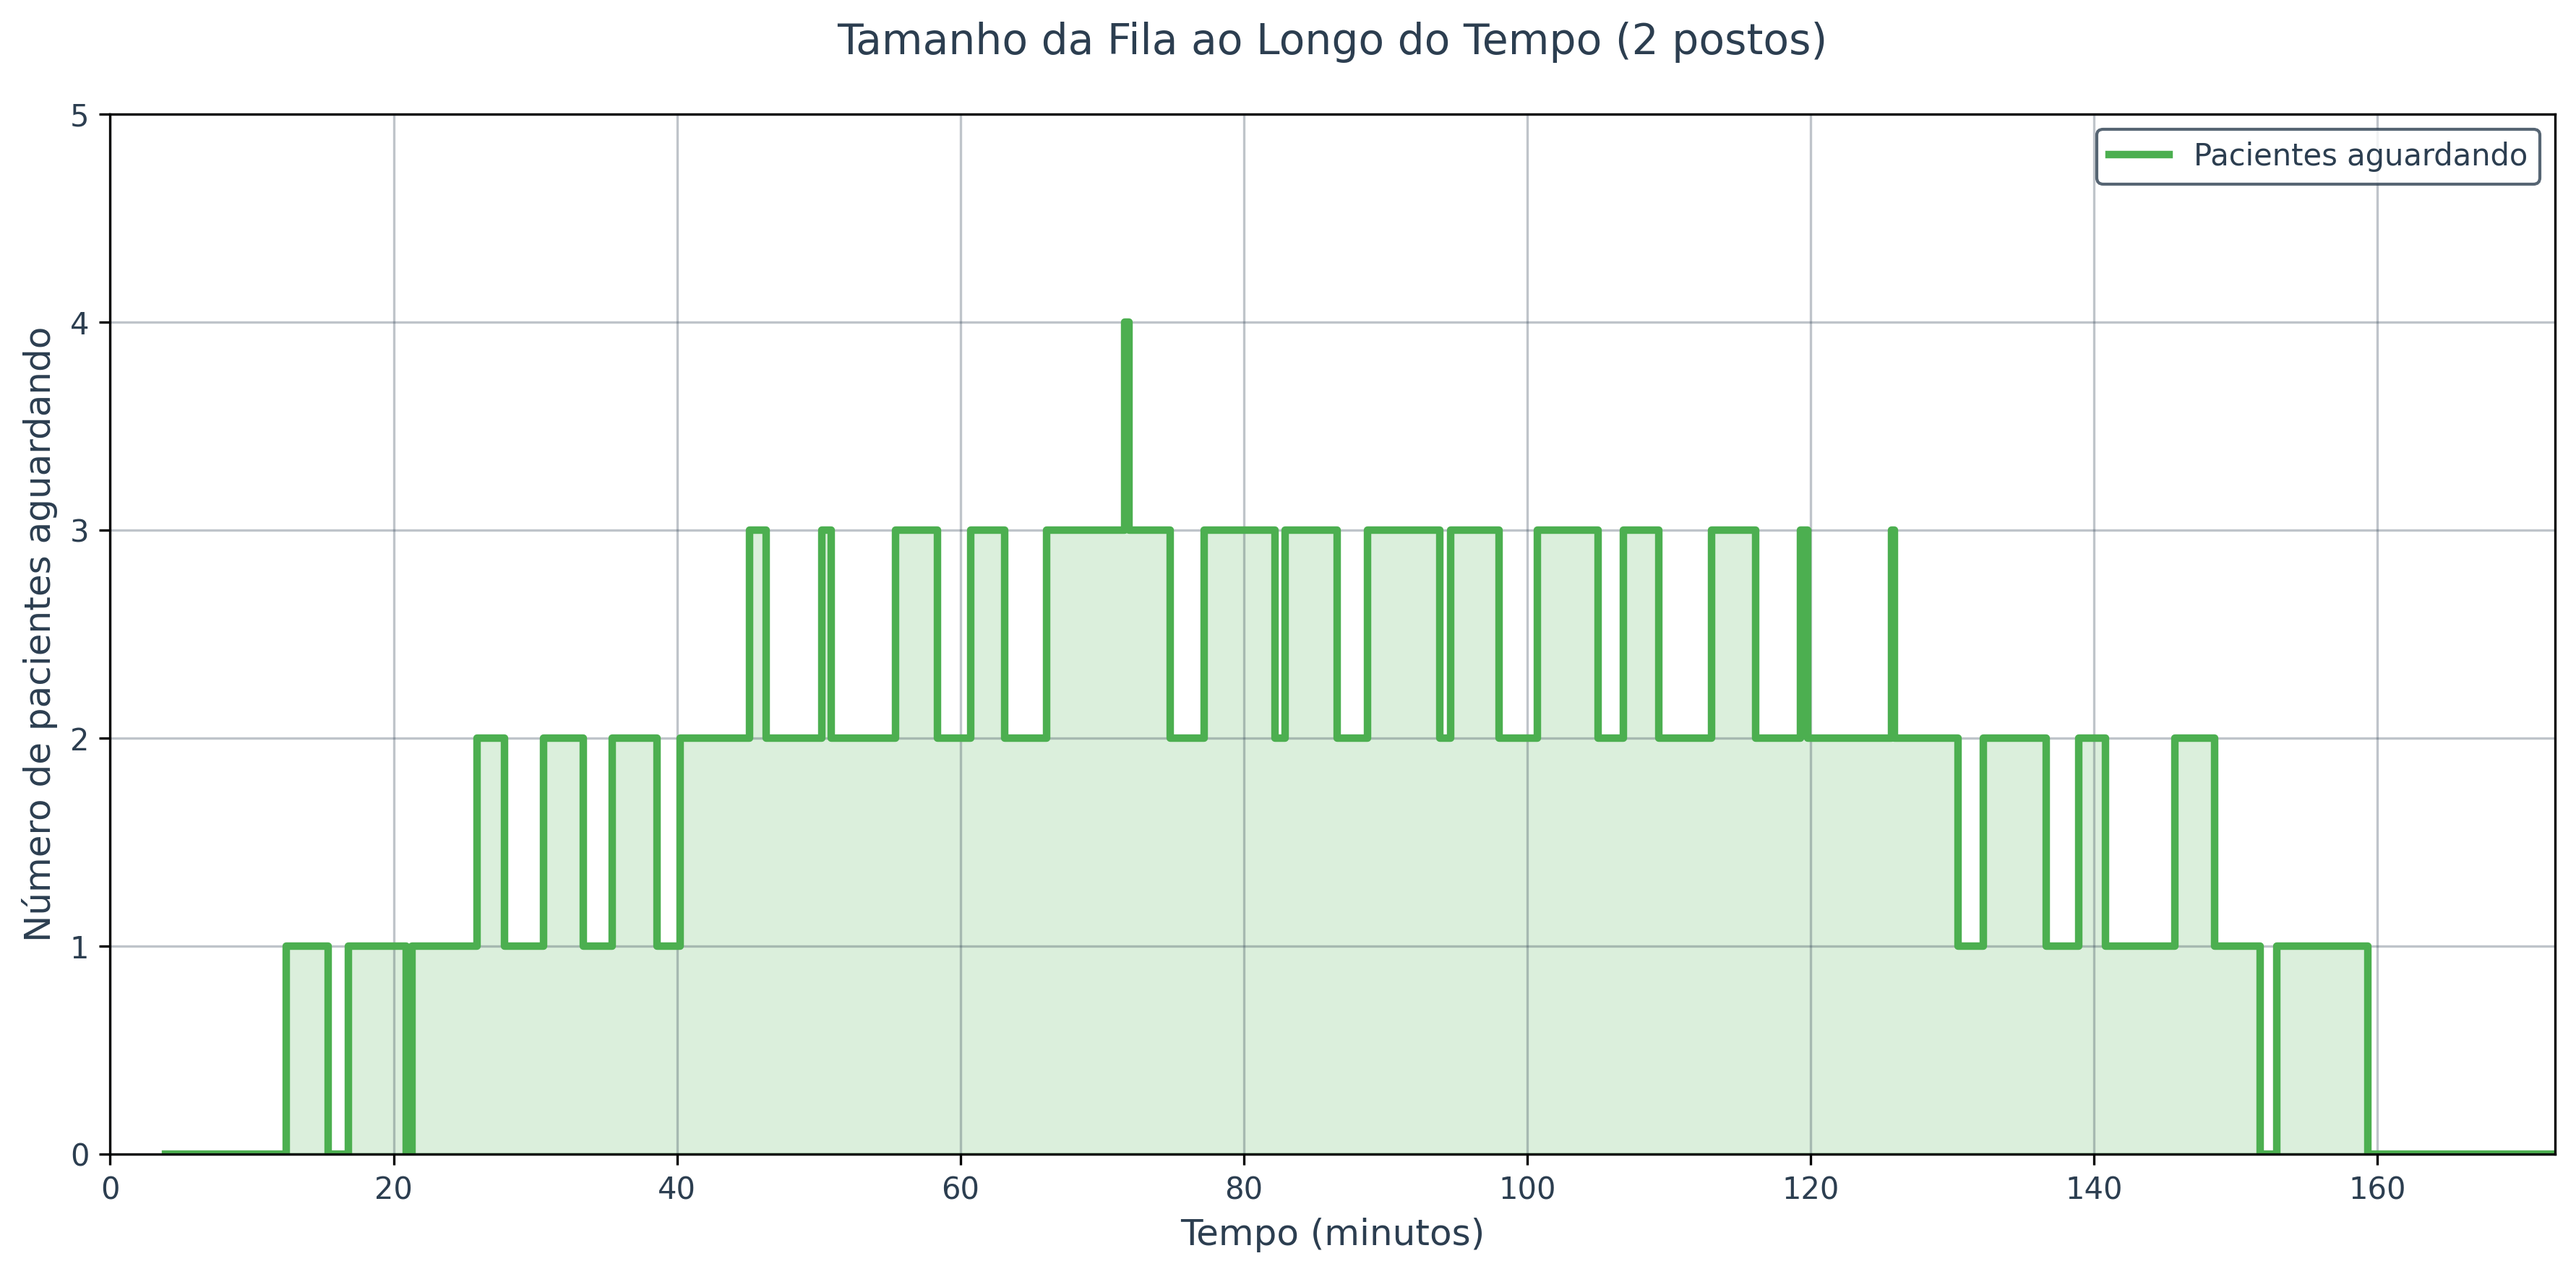
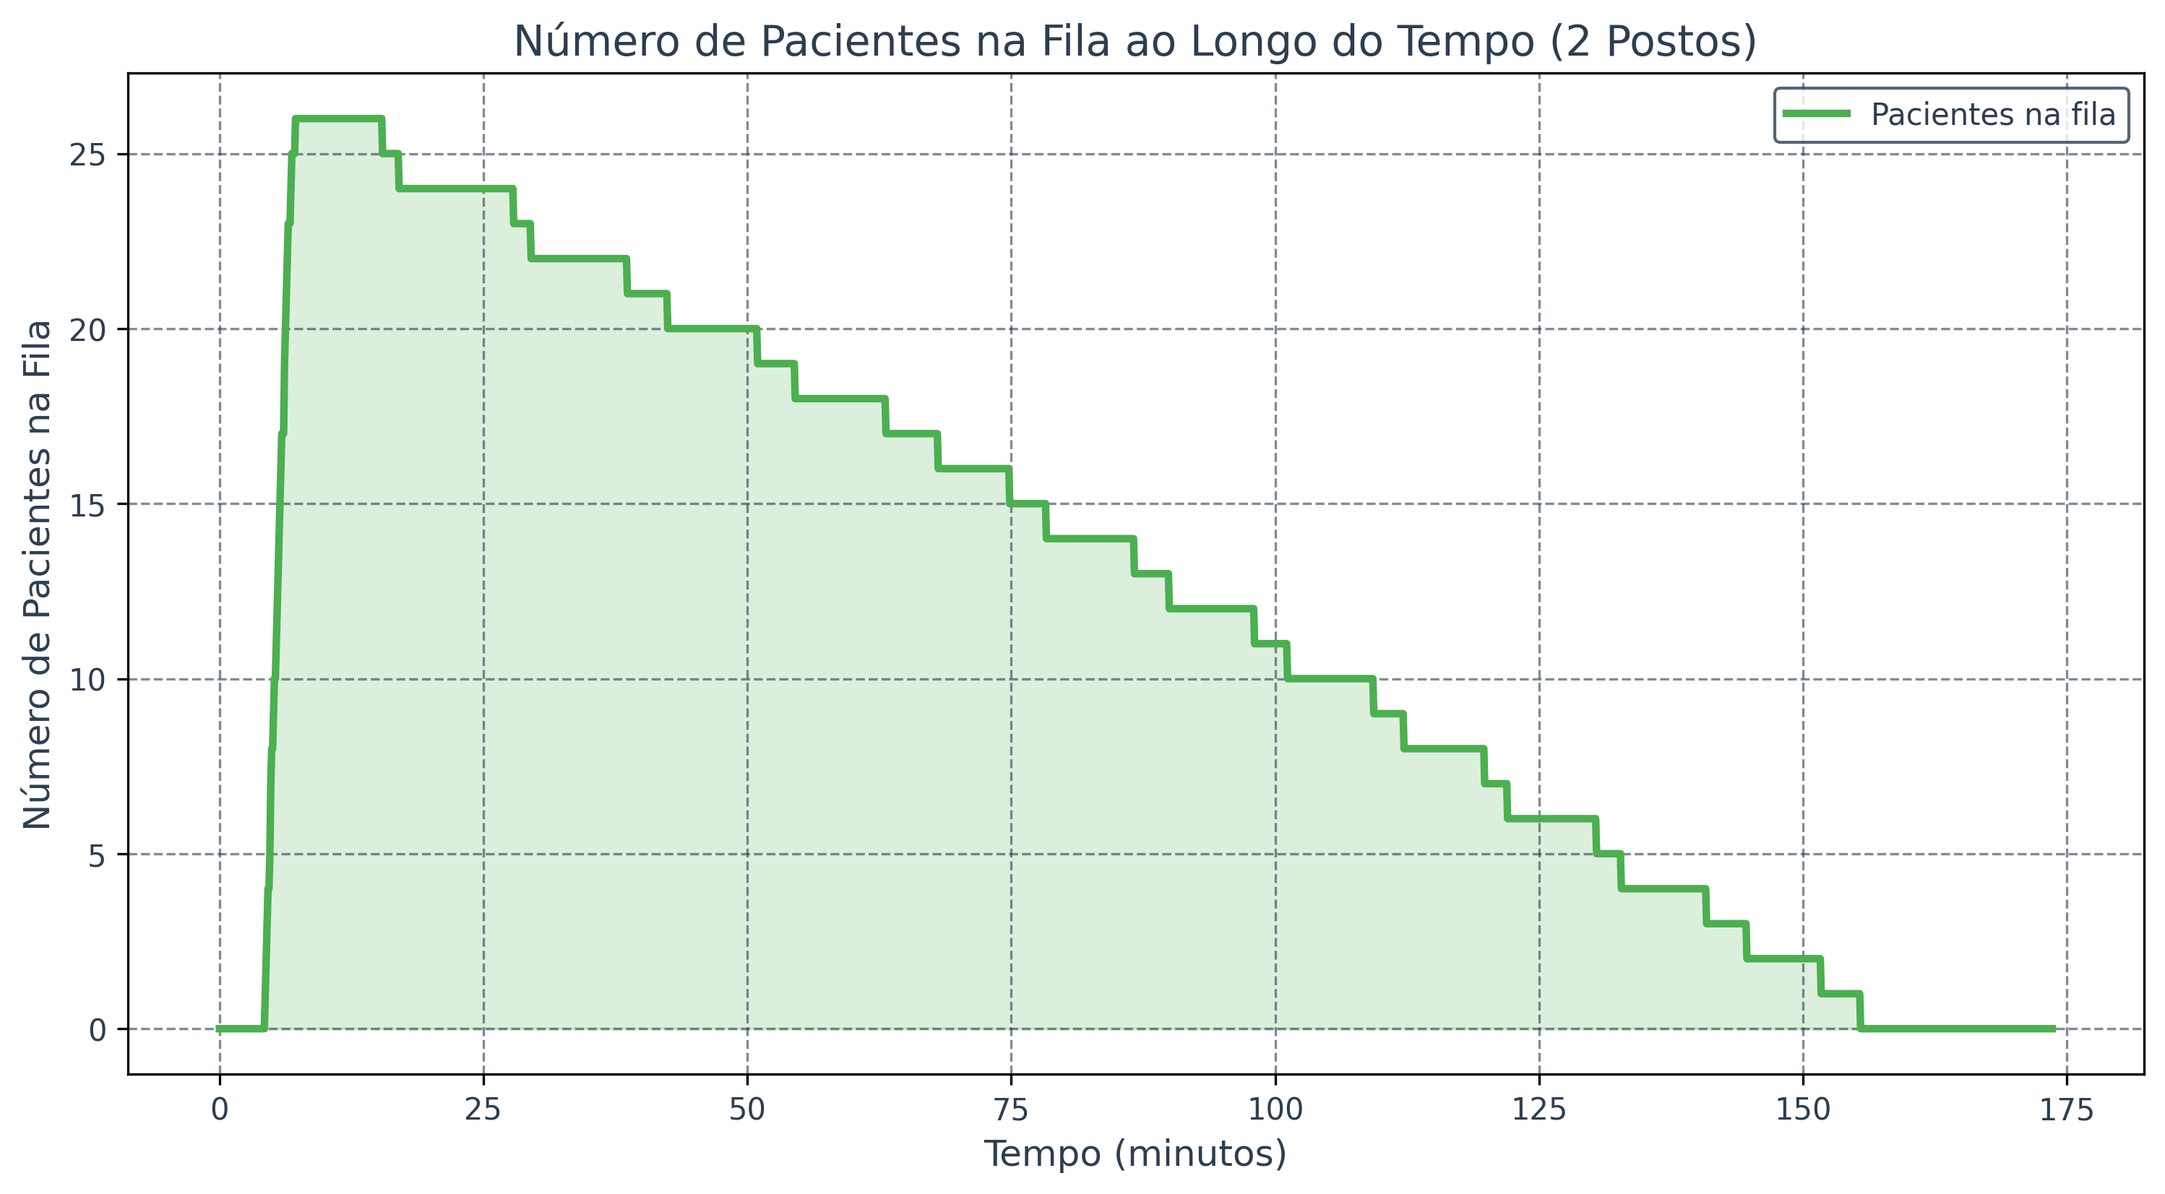
Ajuste final dos gráficos

diff --git a/src/models/simulacao_filas.py b/src/models/simulacao_filas.py
@@ -13,11 +13,10 @@ class SimuladorFilas:
             'tempo_de_chegada': float,
             'tempo_atendimento': float
         })
-        self.fila = deque()
-        self.servidores = [0] * num_servidores
-        self.historico_fila = []
-        self.historico_espera = []
-        self.historico_ocupacao = []
+        self.tempos_chegada = self.dados['tempo_de_chegada'].values
+        self.tempos_atendimento = self.dados['tempo_atendimento'].values
+        self.n = len(self.tempos_chegada)
+        self.n = len(self.tempos_chegada)
 
     def _encontrar_servidor_livre(self):
         for i, tempo_ocupado in enumerate(self.servidores):
@@ -26,61 +25,30 @@ class SimuladorFilas:
         return None
         
     def simular(self):
-        # Calcular tempos reais de chegada
-        self.dados['tempo_chegada'] = self.dados['tempo_de_chegada'].cumsum()
-        
-        # Inicializar variáveis
-        n = len(self.dados)
-        self.servidores = [0] * self.num_servidores
-        self.historico_espera = []
-        self.historico_ocupacao = []
-        tempo_total_espera = 0
-        
-        # Arrays para armazenar os tempos
+        n = self.n
+        NUM_SERVIDORES = self.num_servidores
+
         self.inicio_atendimento = np.zeros(n)
         self.fim_atendimento = np.zeros(n)
-        self.tempos_chegada = self.dados['tempo_chegada'].values
-        self.tempos_atendimento = self.dados['tempo_atendimento'].values
-        fim_servidores = [0] * self.num_servidores
-        
-        # Lista para armazenar eventos (chegada: +1, saída: -1)
-        eventos = []
-        
+        self.tempo_espera = np.zeros(n)
+        fim_servidores = [0.0] * NUM_SERVIDORES
+        self.ocupacoes = [[] for _ in range(NUM_SERVIDORES)]
+
+        # Calcular tempos de espera e atendimento corretamente
         for i in range(n):
             chegada = self.tempos_chegada[i]
             duracao = self.tempos_atendimento[i]
-            
-            # Encontrar servidor que ficará livre primeiro
-            servidor_idx = min(range(self.num_servidores), key=lambda x: fim_servidores[x])
-            inicio = max(chegada, fim_servidores[servidor_idx])
+
+            servidor = np.argmin(fim_servidores)
+            inicio = max(chegada, fim_servidores[servidor])
             fim = inicio + duracao
-            
-            # Registrar eventos de chegada e saída
-            eventos.append((chegada, 1))           # Chegada
-            eventos.append((inicio + duracao, -1)) # Saída
-            
-            # Armazenar tempos
+
             self.inicio_atendimento[i] = inicio
             self.fim_atendimento[i] = fim
-            fim_servidores[servidor_idx] = fim
-            
-            # Calcular e acumular tempo de espera
-            tempo_espera = inicio - chegada
-            tempo_total_espera += tempo_espera
-            self.historico_espera.append(tempo_total_espera)
-        
-        # Ordenar eventos por tempo
-        eventos.sort()
-        
-        # Criar timeline e calcular tamanho da fila
-        self.timeline = []
-        self.fila = []
-        pessoas_na_fila = 0
-        
-        for tempo, mudanca in eventos:
-            self.timeline.append(tempo)
-            pessoas_na_fila += mudanca
-            self.fila.append(max(0, pessoas_na_fila - self.num_servidores))
+            self.tempo_espera[i] = inicio - chegada
+            fim_servidores[servidor] = fim
+
+            self.ocupacoes[servidor].append((inicio, duracao, f'Cliente {i+1}'))
 
     def _calcular_p0(self, lambda_taxa, mu_taxa):
         rho = lambda_taxa / (self.num_servidores * mu_taxa)
@@ -123,15 +91,23 @@ class SimuladorFilas:
         }
     
     def gerar_graficos(self):
-        if not hasattr(self, 'timeline'):
-            self.simular()
+        n = len(self.dados)
 
-        # Configuração do estilo dos gráficos
+        # Cores do tema
+        cor_primaria = '#00A1E0'    # Azul médico
+        cor_secundaria = '#4CAF50'  # Verde saúde
+        cor_destaque = '#FF6B6B'    # Vermelho suave
+        cor_fundo = '#FFFFFF'       # Branco
+        cor_texto = '#2C3E50'       # Azul escuro
+        cores_personalizadas = [
+            cor_primaria, cor_secundaria, cor_destaque, '#FFA726', '#7E57C2',
+            '#26A69A', '#FB8C00', '#5C6BC0', '#66BB6A', '#EC407A'
+        ]
+
         plt.style.use('default')
-        # Configurações gerais do matplotlib
         plt.rcParams.update({
-            'figure.facecolor': 'white',
-            'axes.facecolor': 'white',
+            'figure.facecolor': cor_fundo,
+            'axes.facecolor': cor_fundo,
             'axes.grid': True,
             'grid.alpha': 0.3,
             'axes.labelsize': 12,
@@ -141,88 +117,70 @@ class SimuladorFilas:
             'lines.linewidth': 2.5,
             'font.family': 'sans-serif',
         })
-        n = len(self.dados)
 
-        # Cores do tema
-        cor_primaria = '#00A1E0'    # Azul médico
-        cor_secundaria = '#4CAF50'   # Verde saúde
-        cor_destaque = '#FF6B6B'     # Vermelho suave
-        cor_fundo = '#FFFFFF'        # Branco
-        cor_texto = '#2C3E50'        # Azul escuro
-
-        # Primeiro gráfico - Tempo de espera por cliente
-        tempos_espera_ordenados = sorted(self.historico_espera)
+        # Gráfico 1: Tempo de Espera por Cliente
         plt.figure(figsize=(12, 6), facecolor=cor_fundo)
         ax = plt.gca()
         ax.set_facecolor(cor_fundo)
-        plt.bar(range(1, n+1), tempos_espera_ordenados, color=cor_primaria, alpha=0.7)
-        plt.title("Tempo de Espera por Paciente", color=cor_texto, fontsize=14, pad=20)
-        plt.xlabel("Paciente", color=cor_texto, fontsize=12)
-        plt.ylabel("Tempo de Espera (minutos)", color=cor_texto, fontsize=12)
-        plt.xticks(range(1, n+1), color=cor_texto)
+        plt.bar(range(1, n + 1), self.tempo_espera, color=cor_primaria, alpha=0.7)
+        plt.title(f"Tempo de Espera por Paciente ({self.num_servidores} Postos)", color=cor_texto)
+        plt.xlabel("Paciente", color=cor_texto)
+        plt.ylabel("Tempo de Espera (minutos)", color=cor_texto)
+        plt.xticks(range(1, n + 1), color=cor_texto)
         plt.yticks(color=cor_texto)
-        plt.grid(axis='y', linestyle='--', alpha=0.3, color=cor_texto)
-        plt.tight_layout()
+        plt.ylim(0, max(self.tempo_espera) + 1)
+        plt.grid(axis='y', linestyle='--', alpha=0.6, color=cor_texto)
         plt.savefig('assets/graphs/tempo_espera.png', dpi=300, facecolor=cor_fundo, bbox_inches='tight')
         plt.close()
 
-        # Segundo gráfico - Número de pessoas na fila (esperando, para qualquer número de servidores)
+        # Gráfico 2: Número de Pessoas na Fila ao Longo do Tempo
+        timeline = np.linspace(0, self.fim_atendimento.max() + 5, 2000)
+        fila = [
+            np.sum((self.tempos_chegada <= t) & (self.inicio_atendimento > t)) 
+            for t in timeline
+        ]
         plt.figure(figsize=(12, 6), facecolor=cor_fundo)
         ax = plt.gca()
         ax.set_facecolor(cor_fundo)
-        
-        # Pegar todos os tempos de eventos (chegadas e saídas do atendimento)
-        eventos_tempo = np.sort(np.concatenate([self.tempos_chegada, self.fim_atendimento]))
-        fila = [max(0, np.sum((self.tempos_chegada <= t) & (self.fim_atendimento > t)) - self.num_servidores) for t in eventos_tempo]
-        
-        plt.step(eventos_tempo, fila, where='post', color=cor_secundaria, linewidth=2.5, label='Pacientes aguardando')
-        plt.fill_between(eventos_tempo, fila, step="post", alpha=0.2, color=cor_secundaria)
-        plt.title(f'Tamanho da Fila ao Longo do Tempo ({self.num_servidores} postos)', color=cor_texto, fontsize=14, pad=20)
-        plt.xlabel('Tempo (minutos)', color=cor_texto, fontsize=12)
-        plt.ylabel('Número de pacientes aguardando', color=cor_texto, fontsize=12)
-        plt.grid(True, alpha=0.3, color=cor_texto)
+        plt.plot(timeline, fila, label="Pacientes na fila", color=cor_secundaria)
+        plt.fill_between(timeline, fila, color=cor_secundaria, alpha=0.2, step="mid")
+        plt.title(f"Número de Pacientes na Fila ao Longo do Tempo ({self.num_servidores} Postos)", color=cor_texto)
+        plt.xlabel("Tempo (minutos)", color=cor_texto)
+        plt.ylabel("Número de Pacientes na Fila", color=cor_texto)
+        plt.grid(True, linestyle='--', alpha=0.6, color=cor_texto)
         plt.legend(facecolor=cor_fundo, edgecolor=cor_texto, labelcolor=cor_texto)
-        plt.ylim(0, max(fila) + 1)
-        plt.xlim(0, max(eventos_tempo))
         plt.xticks(color=cor_texto)
         plt.yticks(color=cor_texto)
-        plt.tight_layout()
         plt.savefig('assets/graphs/tamanho_fila.png', dpi=300, facecolor=cor_fundo, bbox_inches='tight')
-        plt.close()        # Terceiro gráfico - Ocupação dos servidores
-        plt.figure(figsize=(12, 6), facecolor=cor_fundo)
-        colors = [cor_primaria, cor_secundaria, '#FF6B6B', '#FFA726', '#7E57C2', '#26A69A', '#FB8C00', '#5C6BC0', '#66BB6A', '#EC407A']
-        ax = plt.gca()
+        plt.close()
+
+        # Gráfico 3: Ocupação dos Servidores (Gantt)
+        fig, ax = plt.subplots(figsize=(14, self.num_servidores * 0.5), facecolor=cor_fundo)        
         ax.set_facecolor(cor_fundo)
 
-        tempo_atual = 0
-        fim_servidores = [0] * self.num_servidores
-        ocupacoes = {i: [] for i in range(self.num_servidores)}
+        # for servidor, tarefas in enumerate(self.ocupacoes):
+        #     for (inicio, duracao, label) in tarefas:
+        #         ax.broken_barh([(inicio, duracao)], (servidor * 10, 9),
+        #                        facecolors=colors(servidor), edgecolor='black')
+        #         ax.text(inicio + duracao / 2, servidor * 10 + 4.5, label,
+        #                 ha='center', va='center', fontsize=8)
+        
+        for servidor, tarefas in enumerate(self.ocupacoes):
+            cor = cores_personalizadas[servidor % len(cores_personalizadas)]
+            for (inicio, duracao, label) in tarefas:
+                ax.broken_barh([(inicio, duracao)], (servidor * 10, 9),
+                               facecolors=cor, edgecolor=cor_texto, alpha=0.7)
+                ax.text(inicio + duracao / 2, servidor * 10 + 4.5, label,
+                        ha='center', va='center', fontsize=8, color=cor_texto, fontweight='bold')
 
-        for i, cliente in enumerate(self.dados.itertuples()):
-            tempo_atual += float(cliente.tempo_de_chegada)
-            duracao = float(cliente.tempo_atendimento)
-
-            if self.historico_espera[i] == 0:
-                servidor = min(range(self.num_servidores), key=lambda x: fim_servidores[x])
-                inicio = tempo_atual
-            else:
-                servidor = min(range(self.num_servidores), key=lambda x: fim_servidores[x])
-                inicio = fim_servidores[servidor]
-
-            fim_servidores[servidor] = inicio + duracao
-            ocupacoes[servidor].append((inicio, duracao, i+1))
-
-        for servidor, tarefas in ocupacoes.items():
-            for inicio, duracao, label in tarefas:
-                ax.broken_barh([(inicio, duracao)], (servidor * 10, 9), facecolors=colors[servidor],edgecolor=cor_texto, alpha=0.7)
-                ax.text(inicio + duracao/2, servidor * 10 + 4.5, str(label), ha='center', va='center', color=cor_texto, fontsize=8, fontweight='bold')
-
-        plt.title('Ocupação dos Postos de Vacinação', fontsize=14, color=cor_texto, pad=20)
-        plt.xlabel('Tempo (minutos)', fontsize=12, color=cor_texto)
-        plt.yticks([5 + 10*i for i in range(self.num_servidores)], [f'Posto {i+1}' for i in range(self.num_servidores)], color=cor_texto)
+        ax.set_ylim(0, self.num_servidores * 10)
+        ax.set_xlim(0, max([inicio + duracao for ocup in self.ocupacoes for (inicio, duracao, _) in ocup]) + 2)
+        ax.set_xlabel("Tempo (minutos)", color=cor_texto)
+        ax.set_yticks([i * 10 + 4.5 for i in range(self.num_servidores)])
+        ax.set_yticklabels([f'Posto {i+1}' for i in range(self.num_servidores)], color=cor_texto)
+        ax.set_title("Ocupação dos Postos ao Longo do Tempo", color=cor_texto)
+        ax.grid(True, axis='x', linestyle='--', alpha=0.5, color=cor_texto)
         plt.xticks(color=cor_texto)
-        plt.grid(True, alpha=0.2, color=cor_texto)
-        plt.ylim(0, 10 * self.num_servidores + 5)
-        plt.tight_layout()
+        plt.yticks(color=cor_texto)
         plt.savefig('assets/graphs/ocupacao_servidores.png', dpi=300, facecolor=cor_fundo, bbox_inches='tight')
         plt.close('all')
